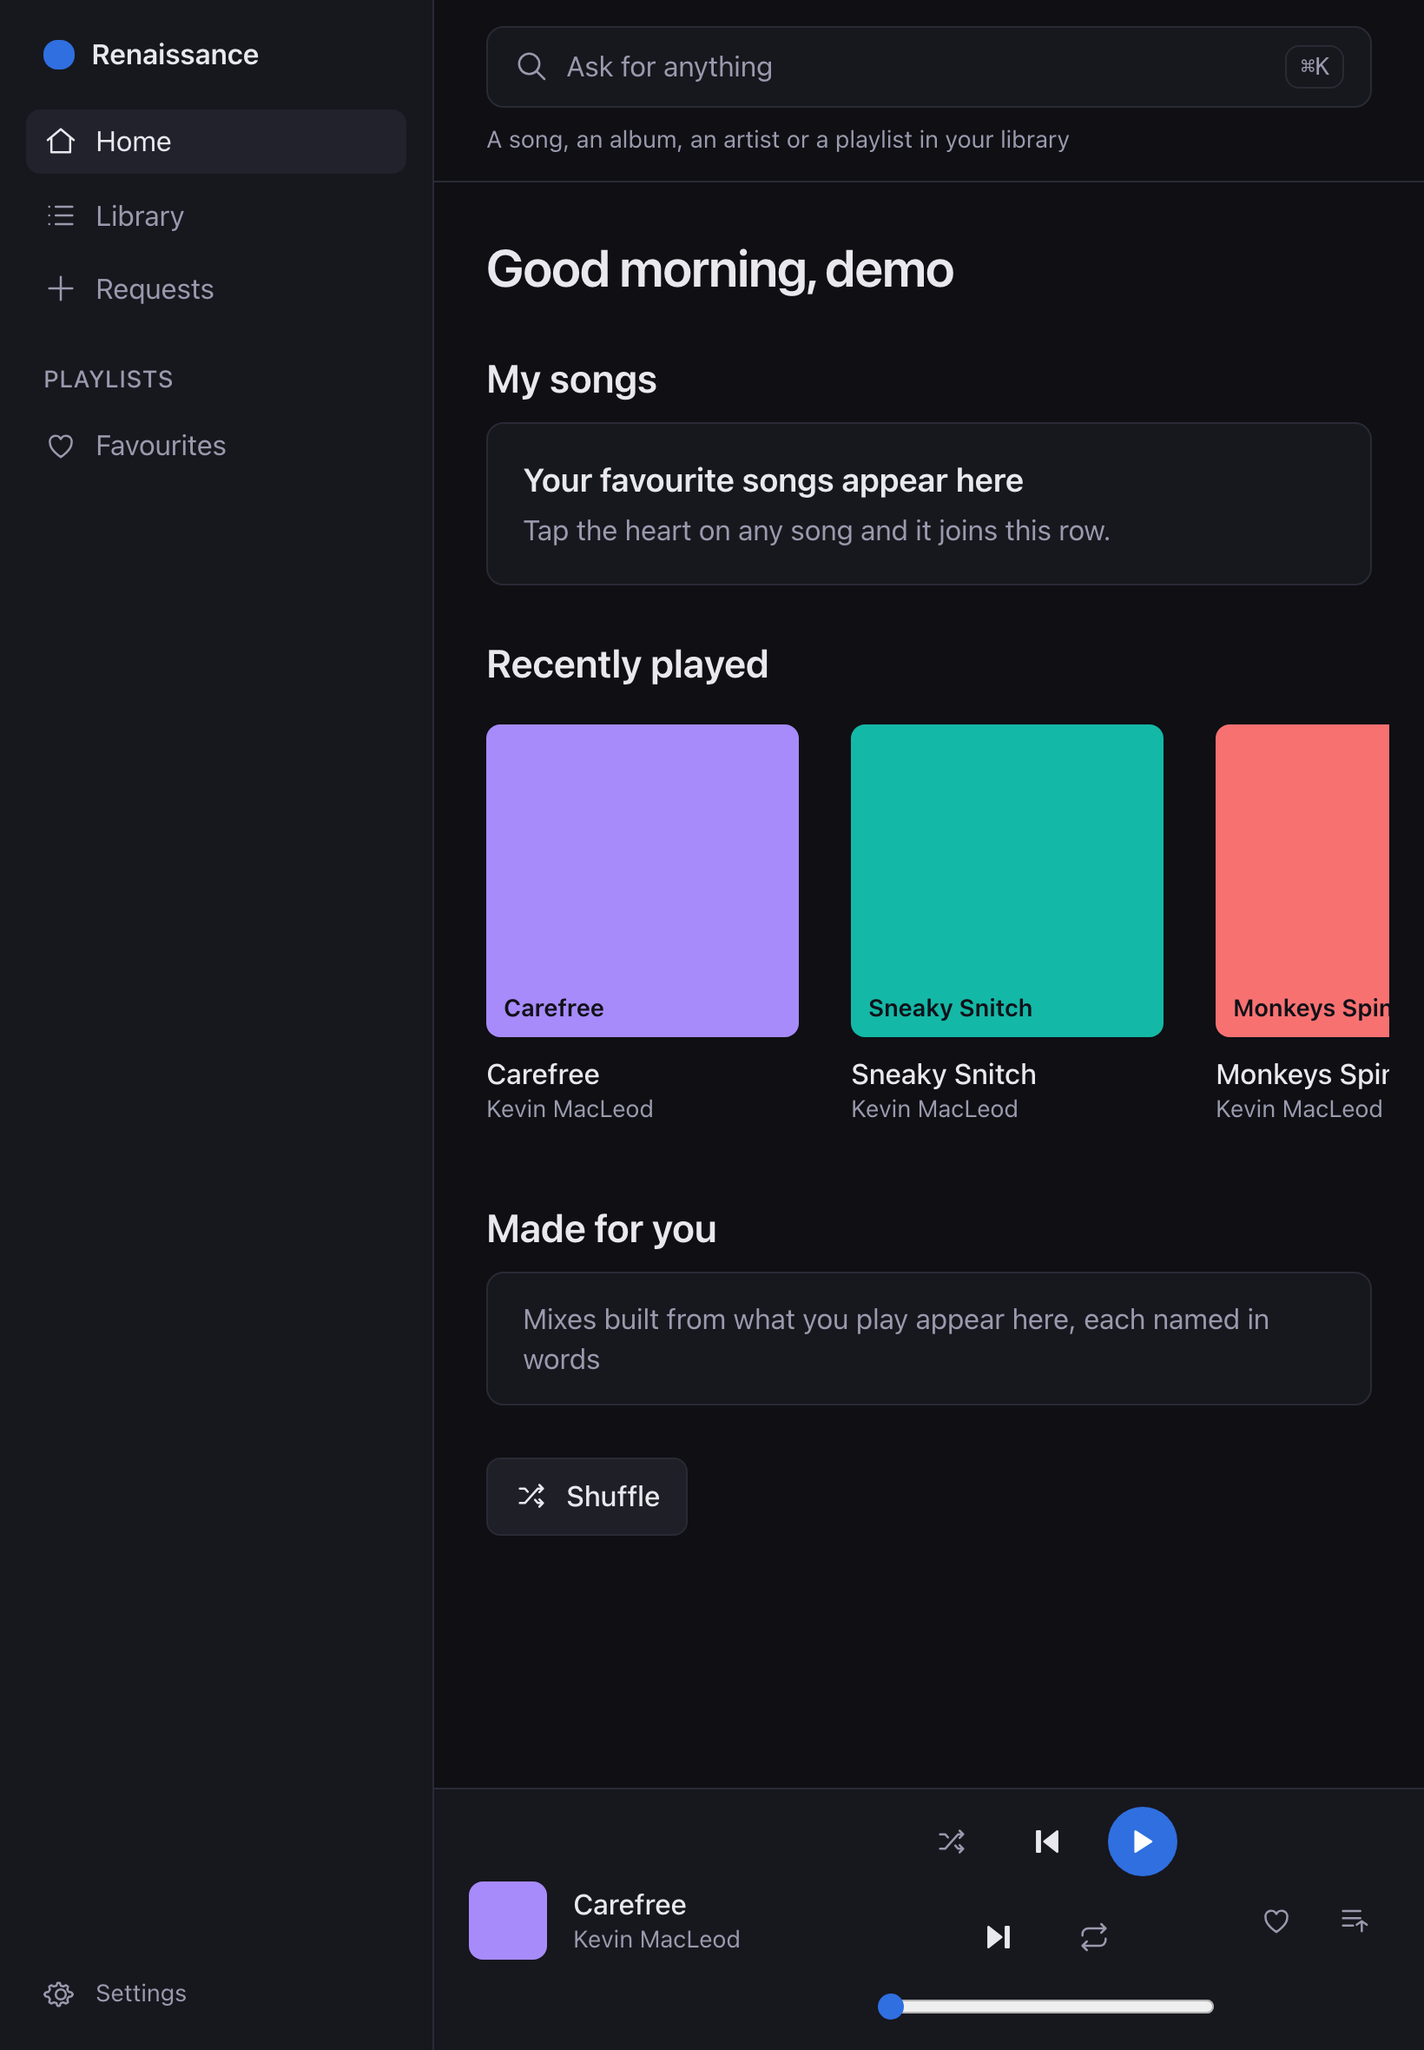
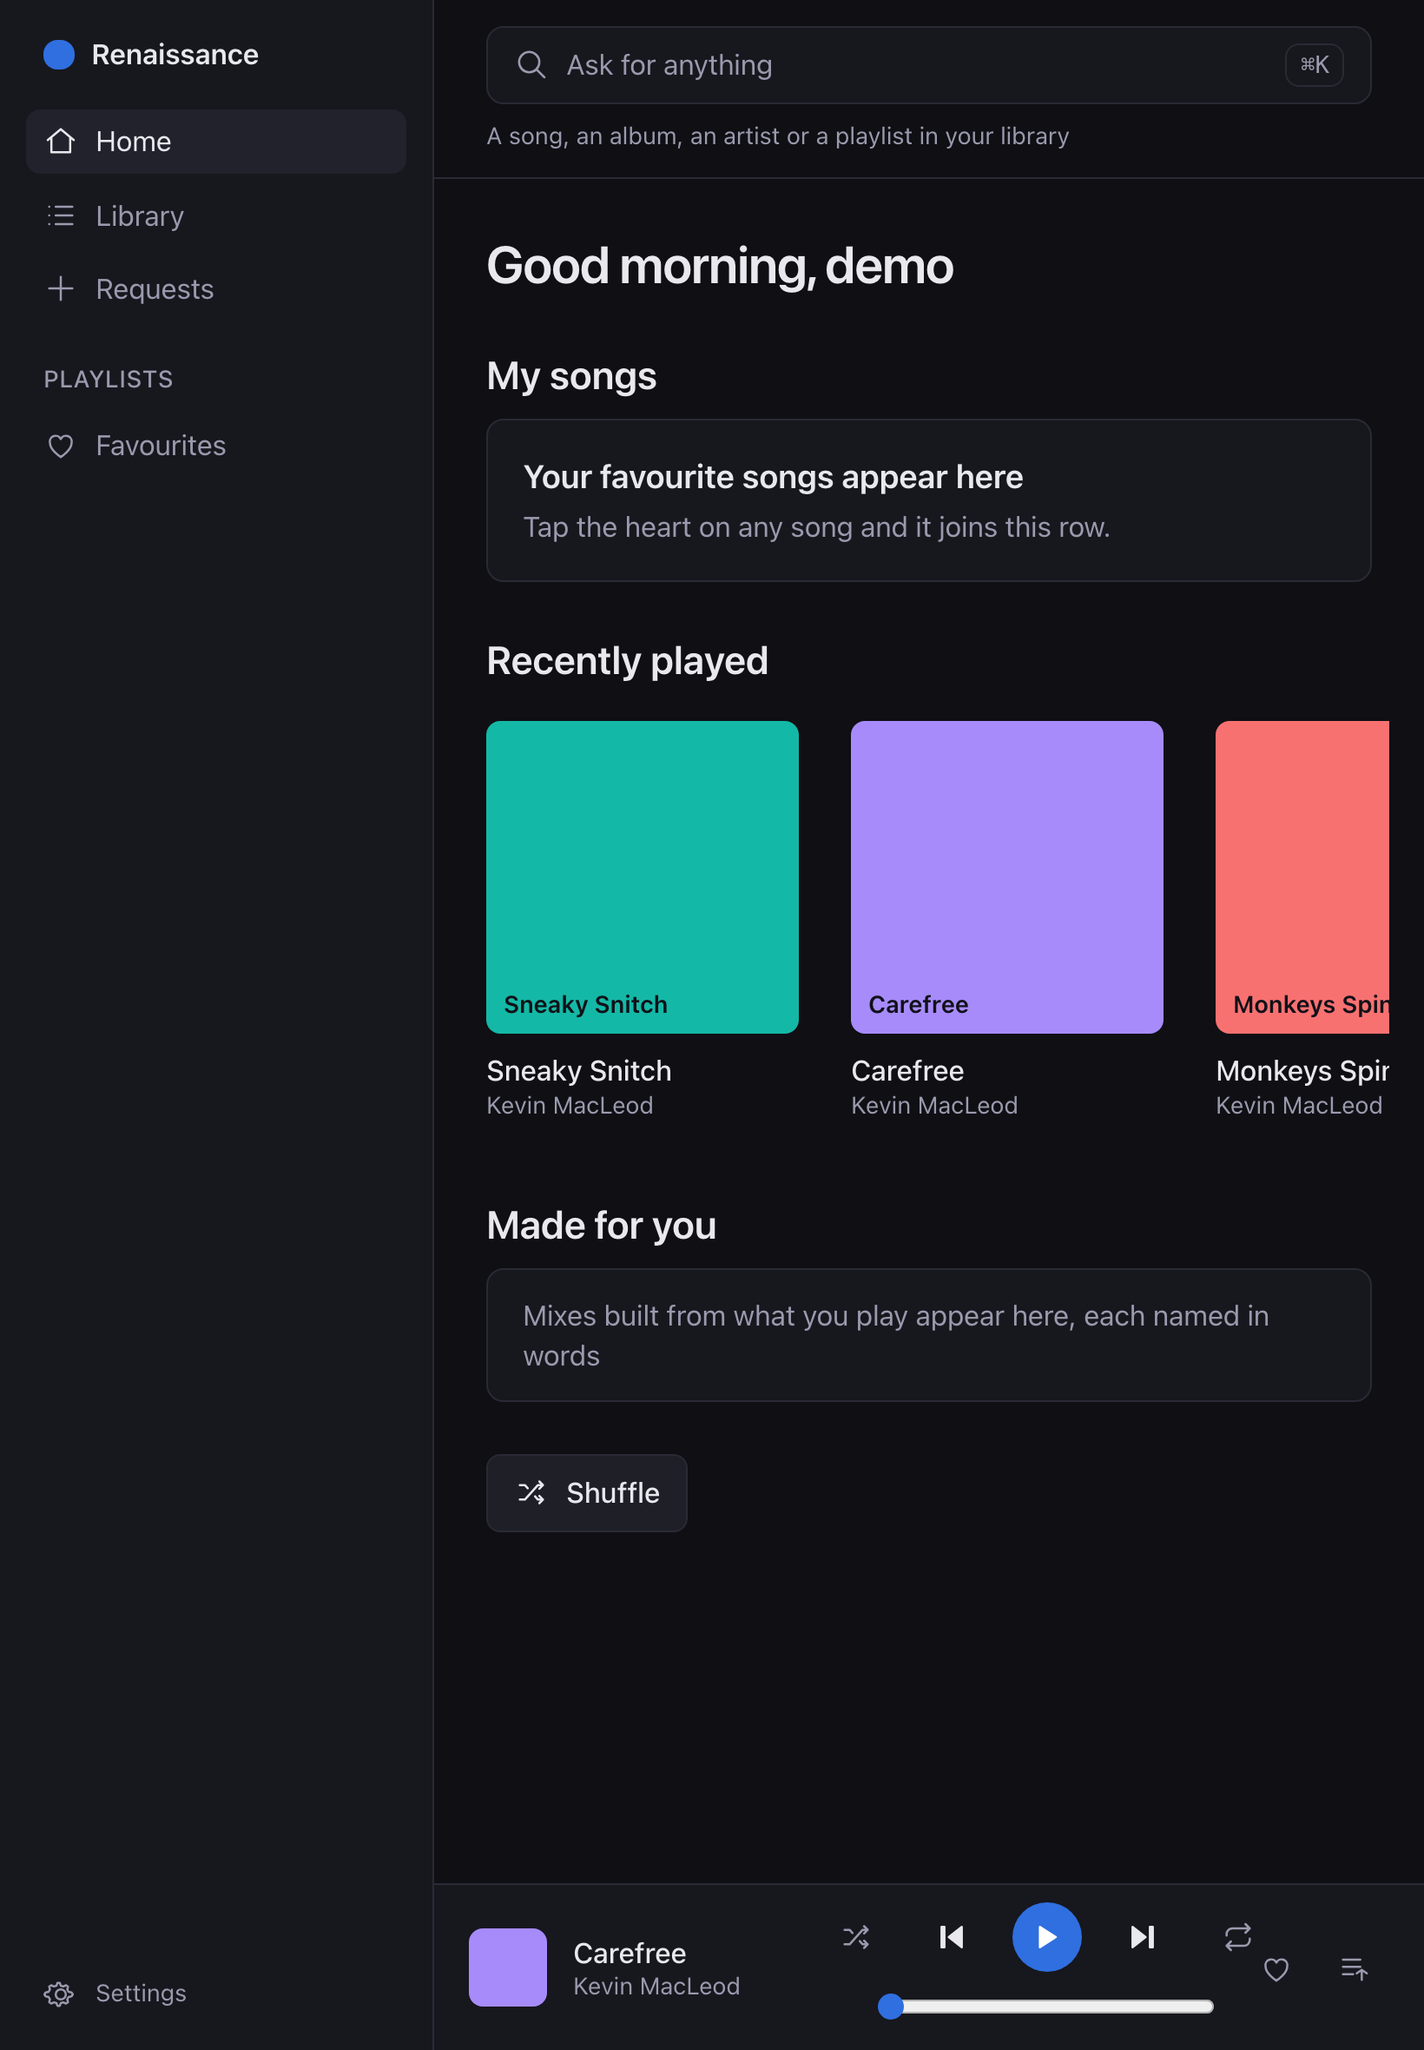
docs: adr 0012 corrected for the socket patch, testing notes, tablet and ask shots, changeset

diff --git a/docs/testing.md b/docs/testing.md
@@ -2,12 +2,12 @@
 
 Three layers, all run by `pnpm test` and CI except the last, which needs a real server.
 
-| Layer                     | Where                                                                                                                                                                                                                                                                                                                                                                                                                                                                                                                                                                                                                                                                                                                                                                                                         | Runs                                                                |
-| ------------------------- | ------------------------------------------------------------------------------------------------------------------------------------------------------------------------------------------------------------------------------------------------------------------------------------------------------------------------------------------------------------------------------------------------------------------------------------------------------------------------------------------------------------------------------------------------------------------------------------------------------------------------------------------------------------------------------------------------------------------------------------------------------------------------------------------------------------- | ------------------------------------------------------------------- |
-| Unit, core                | `packages/core/test` (Vitest, coverage floor 80 % on lines, branches, functions, statements)                                                                                                                                                                                                                                                                                                                                                                                                                                                                                                                                                                                                                                                                                                                  | `pnpm test`, CI                                                     |
-| Unit, web                 | `apps/web/src/**/*.test.tsx` (Vitest, jsdom, Testing Library; a fake adapter and a fake audio port in `src/test/fakes.ts`; `fake-indexeddb` for the vault and the cache)                                                                                                                                                                                                                                                                                                                                                                                                                                                                                                                                                                                                                                      | `pnpm test`, CI                                                     |
-| Browser, static           | `apps/web/e2e/accessibility.spec.ts` (Playwright on Chromium against the built app: focus outline colour and width, 24 and 30 px targets, not-found shell, favicon, the chart ink on every swatch read from rendered pixels in both themes) and `signin.spec.ts` (the 8 s request timeout against a host that never answers, https first for a scheme-less address with the http notice before anything is sent, the Content-Security-Policy meta)                                                                                                                                                                                                                                                                                                                                                            | `pnpm --filter web e2e`, CI                                         |
-| Browser, against Jellyfin | `apps/web/e2e/demo.spec.ts` (sign in; the artist page by every id the server holds for the name, from the grid, from the album and with the server down; row geometry; play with the server's play count rising; three reloads that are not plays; favourite; playlist create, rename, add, keyboard reorder read back from the server, undo, a second user who cannot see it, delete; the bar at 820 px and from 1024 to 1366 px in simple mode with the scrubber at least 160 px; now playing above the fold at 1280×800 and 390×844; no sideways scroll at a 25 px root; placeholder and genre labels in the chart ink from pixels in both themes; the Ask bar from the cache; sign out removing the library database; a browser that blocks IndexedDB still signing in and loading the library in memory) | `pnpm --filter web e2e` with the variables below; **skipped in CI** |
+| Layer                     | Where                                                                                                                                                                                                                                                                                                                                                                                                                                                                                                                                                                                                                                                                                                                                                                                                                                                                                                                                                                       | Runs                                                                |
+| ------------------------- | --------------------------------------------------------------------------------------------------------------------------------------------------------------------------------------------------------------------------------------------------------------------------------------------------------------------------------------------------------------------------------------------------------------------------------------------------------------------------------------------------------------------------------------------------------------------------------------------------------------------------------------------------------------------------------------------------------------------------------------------------------------------------------------------------------------------------------------------------------------------------------------------------------------------------------------------------------------------------- | ------------------------------------------------------------------- |
+| Unit, core                | `packages/core/test` (Vitest, coverage floor 80 % on lines, branches, functions, statements)                                                                                                                                                                                                                                                                                                                                                                                                                                                                                                                                                                                                                                                                                                                                                                                                                                                                                | `pnpm test`, CI                                                     |
+| Unit, web                 | `apps/web/src/**/*.test.tsx` (Vitest, jsdom, Testing Library; a fake adapter and a fake audio port in `src/test/fakes.ts`; `fake-indexeddb` for the vault and the cache)                                                                                                                                                                                                                                                                                                                                                                                                                                                                                                                                                                                                                                                                                                                                                                                                    | `pnpm test`, CI                                                     |
+| Browser, static           | `apps/web/e2e/accessibility.spec.ts` (Playwright on Chromium against the built app: focus outline colour and width, 24 and 30 px targets including the Ask bar's input and a tap on its box edge, not-found shell, favicon, the chart ink on every swatch read from rendered pixels in both themes) and `signin.spec.ts` (the 8 s request timeout against a host that never answers, https first for a scheme-less address with the http notice before anything is sent, the Content-Security-Policy meta)                                                                                                                                                                                                                                                                                                                                                                                                                                                                  | `pnpm --filter web e2e`, CI                                         |
+| Browser, against Jellyfin | `apps/web/e2e/demo.spec.ts` (sign in; the artist page by every id the server holds for the name, from the grid, from the album and with the server down; row geometry; play with the server's play count rising; three reloads that are not plays; favourite, with the heart pressed at once on the list and on the album page; playlist create, rename, add, keyboard reorder read back from the server, undo, a second user who cannot see it, delete; the bar at 820 px, its five transport buttons on one row at one bar height from 768 to 900 px in simple mode, and from 1024 to 1366 px in simple mode with the scrubber at least 160 px; now playing above the fold at 1280×800 and 390×844; no sideways scroll at a 25 px root; placeholder and genre labels in the chart ink from pixels in both themes; the Ask bar from the cache; sign out removing the library database; a browser that blocks IndexedDB still signing in and loading the library in memory) | `pnpm --filter web e2e` with the variables below; **skipped in CI** |
 
 ## The demo server
 

diff --git a/.changeset/phase-1-core-web.md b/.changeset/phase-1-core-web.md
@@ -10,3 +10,5 @@ Phase 1, core and web. Sign in to a Jellyfin server by address, user and passwor
 After the first round of review: an artist page shows every song and album whatever id the server holds for the name (Jellyfin keeps two entities for one artist when a library gains artist folders later), and works with the server down; a reload no longer counts as a play or starts a transcode; a token the server revoked sends you to sign-in with a sentence instead of a wall of errors; playlist reorders are read back from Jellyfin and compensated for 10.10's off-by-one, with the toast after the read-back and an undo; new playlists are private to you; every request times out (8 s on sign-in, 15 s elsewhere) with the "could not reach" sentence; the cache fetches what a refresh missed and its delta reads from the server's own item stamps (the newest date added and date saved it has seen), so no clock on either side matters; sign-out removes your library, queue and token from the browser; a scheme-less address tries https first and says so before using http; placeholder art matches the row, the bar fits a tablet, now playing fits a desktop and a phone, and genre, year and placeholder labels read in the light theme.
 
 After the second round: the player bar keeps a usable scrubber at every width from 1024 px in simple mode (times and volume from 1280 px there); placeholder and genre labels render in the one ink that reads on every swatch in the dark theme too; the bar's placeholder colour matches the row's; the sidebar language switch and the Library sync line follow simple mode as the phone does; a browser that blocks IndexedDB (a private window with site data blocked) still signs in and loads the library, kept in memory for the session; counts print with thousands grouping ("20,000 songs", Indian grouping in Gujarati); a scheme-less address that answers on neither scheme says so after two tries instead of three; a sign-out in one tab signs the other tabs of that user out too; a late 401 from a previous user's requests no longer signs the next user out; the reorder planner forgets a learned model that stopped fitting; a favourite reaches the other tabs once the server has it.
+
+After the third round: a heart tapped on an album page fills at once; a heart tapped while the library is refreshing stays after the refresh lands; a favourite or a play made on another device reaches this one the moment the server announces it, for any song in the library, not only the 200 most recently saved; the player bar keeps its five transport buttons on one row on tablets in simple mode; the whole Ask bar box takes a tap; switching to Gujarati changes the page language and the words together, and a switch whose strings cannot be fetched leaves everything as it was and says so; a screen that cannot load offline says you are offline and loads itself when the connection returns; a reload no longer flashes "no favourites" or "this playlist is gone" while the cache loads from disk; an artist or album named exactly what you typed leads the instant results; Settings names the full rebuild "Rebuild library" apart from the quick refresh; a song whose name is only spaces shows "(untitled)".

diff --git a/docs/adr/0012-delta-refresh-from-a-server-stamped-watermark.md b/docs/adr/0012-delta-refresh-from-a-server-stamped-watermark.md
@@ -32,7 +32,13 @@ clock. The documented deployments are all cross-origin, so the server clock neve
 - One full re-sync on the first start after this change, then deltas as before.
 - `Library.serverTime()` is gone from the adapter interface; nothing reads response headers.
 - Measured on 10.10.7 while doing this: `MinDateLastSavedForUser` filters on the item's own
-  `DateLastSaved`, which a favourite or a play does not bump. Those changes reach the cache through the
-  200-item `DateLastSaved` page, the socket's `UserDataChanged` refresh and the next full sync; a
-  favourite toggled on another device for an item outside that page waits for one of those. ADR 0008's
-  "favourite and play-count changes through `MinDateLastSavedForUser`" over-states what the filter does.
+  `DateLastSaved`, which a favourite or a play does not bump, so the delta cannot see another device's
+  heart or play. ADR 0008's "favourite and play-count changes through `MinDateLastSavedForUser`"
+  over-states what the filter does. Those changes reach the cache another way: the server's
+  `UserDataChanged` push names the items (`UserDataList[{ItemId, IsFavorite, PlayCount, LastPlayedDate}]`),
+  and the app patches those rows in the cache the moment the push arrives, fetching by id the ones the
+  cache does not hold yet. The push still schedules a delta for everything else it may signal. Without
+  the socket (a proxy that drops websockets), user data from other devices waits for the 200-item
+  `DateLastSaved` page or the next full sync, as before. (Corrected 2026-11-20 after the round 3
+  review: the first text had the push only scheduling a delta, which left an item outside the 200
+  page waiting for a full sync.)
